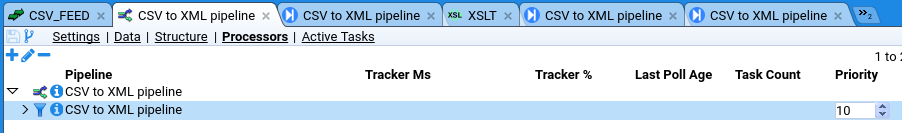
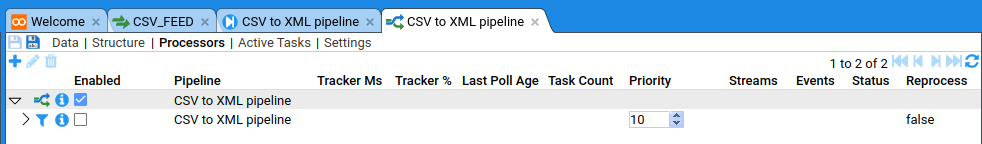
Update quick start guide (WIP)

diff --git a/content/en/docs/quick-start-guide/indexing.md b/content/en/docs/quick-start-guide/indexing.md
@@ -7,31 +7,37 @@ tags:
   - index
 description: >
   Indexing the ingested data.
+
 ---
 
-Before you can visualise your data with dashboards you have to index the data;
+Before you can visualise your data with dashboards you have to {{< glossary "index" >}} the data;
 First I opted for creating a specific volume to hold my data, just because I wanted to keep my shards away from the default volumes;
 
-Go to the Tools ➔ Volumes menu
+Go to the Tools => Volumes menu
 
+<!-- TODO Fix this image -->
 {{< image "quick-start-guide/index/001_volumes.png" >}}Volumes{{< /image >}}
 
 Once the volumes dialogue opens click the blue plus sign at the top left of the window to add a new one
 
+<!-- TODO Fix this image -->
 {{< image "quick-start-guide/index/002_volume_list.png" >}}Volume list{{< /image >}}
 
 Select the node where you want the volume to be and the path you want to create, (because we are following the quick-start guide we just have one node and limited size, but we do want to set it as active so we can write documents to it and we want it to be public, because we might want other indexes to use it; your needs might be different.
 
+<!-- TODO Fix this image -->
 {{< image "quick-start-guide/index/003_volume_edit.png" >}}Volume edit{{< /image >}}
 
 Click ok and we’re good to go.
 
 Then we can create an index by selecting index item in the explorer tree. You do this in the same way you create any of the items. Just select/create a folder that you want to create the new index in and right click, select New Index.
 
+<!-- TODO Fix this image -->
 {{< image "quick-start-guide/index/004_index_new.png" >}}New index{{< /image >}}
 
 Choose a name for your new index
 
+<!-- TODO Fix this image -->
 {{< image "quick-start-guide/index/005_index_name.png" >}}Index name{{< /image >}}
 
 In the settings tab we need to specify the volume where we will store our shards
@@ -42,6 +48,7 @@ Firstly there are two mandatory fields that need to be added: `StreamId` and `Ev
 
 Both should be of type `Id`, stored and indexed with the `Keyword` analyser
 
+<!-- TODO Fix this image -->
 {{< image "quick-start-guide/index/006_index_field.png" >}}Index field{{< /image >}}
 
 If you were following the quick-start instruction on ingesting the `mock_stroom_data.csv`, we’ll use those fields here.
@@ -60,24 +67,29 @@ Application  | Text   | Yes    | Yes    | Yes        | Alpha numeric  | false
 
 We are creating fields in our index to match the fields we have ingested to provide a place for the data to go that Stroom can reference.
 
+<!-- TODO Fix this image -->
 {{< image "quick-start-guide/index/007_index_field_list.png" >}}Index field list{{< /image >}}
 
 When you've done that, save the new index.
 
 Now create a new XSLT.  We are going to convert xml data into something indexable by Stroom.
 
+<!-- TODO Fix this image -->
 {{< image "quick-start-guide/index/008_xslt_new.png" >}}New XSLT{{< /image >}}
 
 To make things manageable we create our new XSLT with the same name as the index in the same folder. After you've set the name just save it and close it, we’ll add some code in there later.
 
+<!-- TODO Fix this image -->
 {{< image "quick-start-guide/index/009_xslt_name.png" >}}XSLT name{{< /image >}}
 
+<!-- TODO Fix this image -->
 {{< image "quick-start-guide/index/010_xslt_settings.png" >}}XSLT settings{{< /image >}}
 
 Now we get to send data to the index
 
 Create a new pipeline called Indexing (we are going to make this a template for future indexing requirements).
 
+<!-- TODO Fix this image -->
 {{< image "quick-start-guide/index/011_pipeline_new.png" >}}New pipeline{{< /image >}}
 
 Edit the structure of the pipeline
@@ -94,6 +106,7 @@ IndexingFilter      |indexingFilter
 
 So it looks like this (excluding the ReadRecordCountFilter and WriteRecordCountFilter elements)
 
+<!-- TODO Fix this image -->
 {{< image "quick-start-guide/index/012_indexing_pipeline.png" >}}Indexing pipeline{{< /image >}}
 
 Once the elements have been added you need to set the following property on the elements:
@@ -104,26 +117,31 @@ splitFilter             |splitCount |100
 
 To do this we select the element then double click the property value in the property panel which is below it.
 
+<!-- TODO Fix this image -->
 {{< image "quick-start-guide/index/013_pipeline_element_property.png" >}}Pipeline element property{{< /image >}}
 
 The dialogue pops up where you can set the values
 
+<!-- TODO Fix this image -->
 {{< image "quick-start-guide/index/014_pipeline_edit_element_property.png" >}}Pipeline edit element property{{< /image >}}
 
 Save the pipeline, using the top left icon {{< stroom-icon "save.svg" "Save" >}}, then close the pipeline tab.
 
 Now create a new pipeline
 
+<!-- TODO Fix this image -->
 {{< image "quick-start-guide/index/015_pipeline_name.png" >}}Pipeline name{{< /image >}}
 
 Which we will base on our new “Indexing” template pipeline
 
 On our structure tab
 
+<!-- TODO Fix this image -->
 {{< image "quick-start-guide/index/016_pipeline_structure_new.png" >}}Pipeline structure{{< /image >}}
 
 Click in the “Inherit From” window
 
+<!-- TODO Fix this image -->
 {{< image "quick-start-guide/index/017_pipeline_inheritance.png" >}}Pipeline inheritance{{< /image >}}
 
 Select our Indexing pipeline template that we just created

diff --git a/content/en/docs/quick-start-guide/process.md b/content/en/docs/quick-start-guide/process.md
@@ -280,7 +280,7 @@ Streams only exist within feeds and have a type.
 We could set the feed that the stream will be written into but by default the _StreamAppender_ will write to the same _Feed_ as the input stream.
 We must however set the type of the _Stream_ to distinguish it from the _Raw Events_ _Stream_ that we POSTed to Stroom.
 
-To set the stream type do the following:
+To set the {{< glossary "Stream Type" >}} do the following:
 
 1. Click on the {{< stroom-icon "pipeline/stream.svg" "Stream Appender" >}} _Stream appender_ pipeline element and the pane below will show it's properties.
 1. Double click the `streamType` property and change `Value` to the _Events_ stream type.
@@ -311,45 +311,40 @@ Click the add button {{< stroom-icon "add.svg" >}} and you will be presented wit
 To configure the filter do the following:
 
 1. Right click on the root AND operator and click {{< stroom-icon "add.svg" "Add Term" >}} Add Term.
-  A new expression is added to the tree as a child of the operator and it has three dropdowns in it.
-<!-- TODO finish from here down -->
+  A new expression is added to the tree as a child of the operator and it has three dropdowns in it ({{< glossary "Field" >}}, {{< glossary "Condition" >}} and value).
 1. To create an expression term for the Feed:
-  1. In the first dropdown (the Field), select _Feed_.
-  1. In the second dropdown (the Field), select _Feed_.
+    1. Field: `Feed`
+    1. Condition: `is`
+    1. Value: `CSV_FEED`
+1. To create an expression term for the Stream Type:
+    1. Field: `Type`
+    1. Condition: `=`
+    1. Value: `Raw Events`
 
 
 You only need to set the incoming feed and the stream types:
 
-{{< image "quick-start-guide/process/configure-processor.png" >}}Configure the new processor{{< /image >}}
+{{< image "quick-start-guide/process/configure-processor.png" >}}Configure the new processor filter{{< /image >}}
 
-Now you'll see a very wide table looking something like this:
+You will now see the newly created processor and its filter.
 
-{{< image "quick-start-guide/process/show-processors.png" >}}The new processor{{< /image >}}
+{{< image "quick-start-guide/process/show-processors.png" >}}The new processor and filter{{< /image >}}
 
-This shows two things:
+By default the processor will be enabled on creation but a filter will be disabled on creation.
 
-* The processor for the pipeline
-* The filter that determines what data is passed to the processor
-
-If you scroll all the way over to the right you'll see the _Enabled_ checkbox:
-
-{{< image "quick-start-guide/process/show-processors-enabled.png" >}}The enabled checkbox{{< /image >}}
-
-Check _enabled_ for the processor and the filter you've just created.
+Ensure that both the processor and its filter are enabled by clicking the checkbox at the left of the row.
 This is it, everything we've done is about to start working on its own, just like it would in a real configuration.
 
 If you keep refreshing this table it will show you the processing status which should change after a few seconds to show that the data you have uploaded is being or has been processed.
-Once this has happened you should be able to open the destination feed and see the output data (or errors if there were any).
+The fields in the filter row will have been updated to reflect the new position of the Filter Tracker.
+Once this has happened you should be able to open the destination feed `CSV_FEED` and see the output data (or errors if there were any).
+If the `CSV_FEED` tab was already open then you will likely need to click refresh {{< stroom-icon "refresh.svg" >}} on the top pane.
+
+<!-- TODO Fix this image and sort out the errors locally -->
 
 {{< image "quick-start-guide/process/show-output.png" >}}The output of the pipeline{{< /image >}}
 
 You can see that there are the `Raw Events` and the processed `Events`.
 If you click on the `Events` then you can see all the XML that we've produced.
-
-
-#### Troubleshooting
-
-If nothing happens you might need to enable stream processing.
-This was explained [earlier]({{< relref "running.md#enable-processing-of-data-streams" >}}).
 
 Now you've processed your data you can go ahead and [index]({{< relref "indexing.md" >}}) it.

diff --git a/content/en/docs/glossary.md b/content/en/docs/glossary.md
@@ -16,12 +16,6 @@ An interface that one system can present so other systems can use it to communic
 Stroom has a number of APIs, e.g. its many REST APIs and its `/datafeed` interface for data receipt.
 
 
-## Field
-
-A named data Field within some form of record, and within such a record, each Field can have a value.
-In Stroom Fields can be the Fields in an {{< glossary "Index" >}} or other queryable {{< glossary "Datasource" >}} or the fields of {{< glossary "Meta Data" >}} associated with a {{< glossary "Stream" >}}, e.g. Stream ID, {{< glossary "Feed" >}}, creation time, etc.
-
-
 ## Dashboard
 
 {{% todo %}}
@@ -87,6 +81,12 @@ See also [Dashboard Expressions]({{< relref "expressions" >}}).
 A Feed is means of organising and categorising data in Stoom.
 A Feed contains multiple {{< glossary "stream" "Streams" >}} of data that have been ingested into Stroom or output by a {{< glossary "Pipeline" >}}.
 Typically a Feed will contain {{< glossary "Stream" "Streams" >}} of data that are all from one system and have a common data format.
+
+
+## Field
+
+A named data Field within some form of record or entity, and where each Field can have an associated value.
+In Stroom Fields can be the Fields in an {{< glossary "Index" >}} or other queryable {{< glossary "Datasource" >}} or the fields of {{< glossary "Meta Data" >}} associated with a {{< glossary "Stream" >}}, e.g. Stream ID, {{< glossary "Feed" >}}, creation time, etc.
 
 
 ## Filter (Processor)
